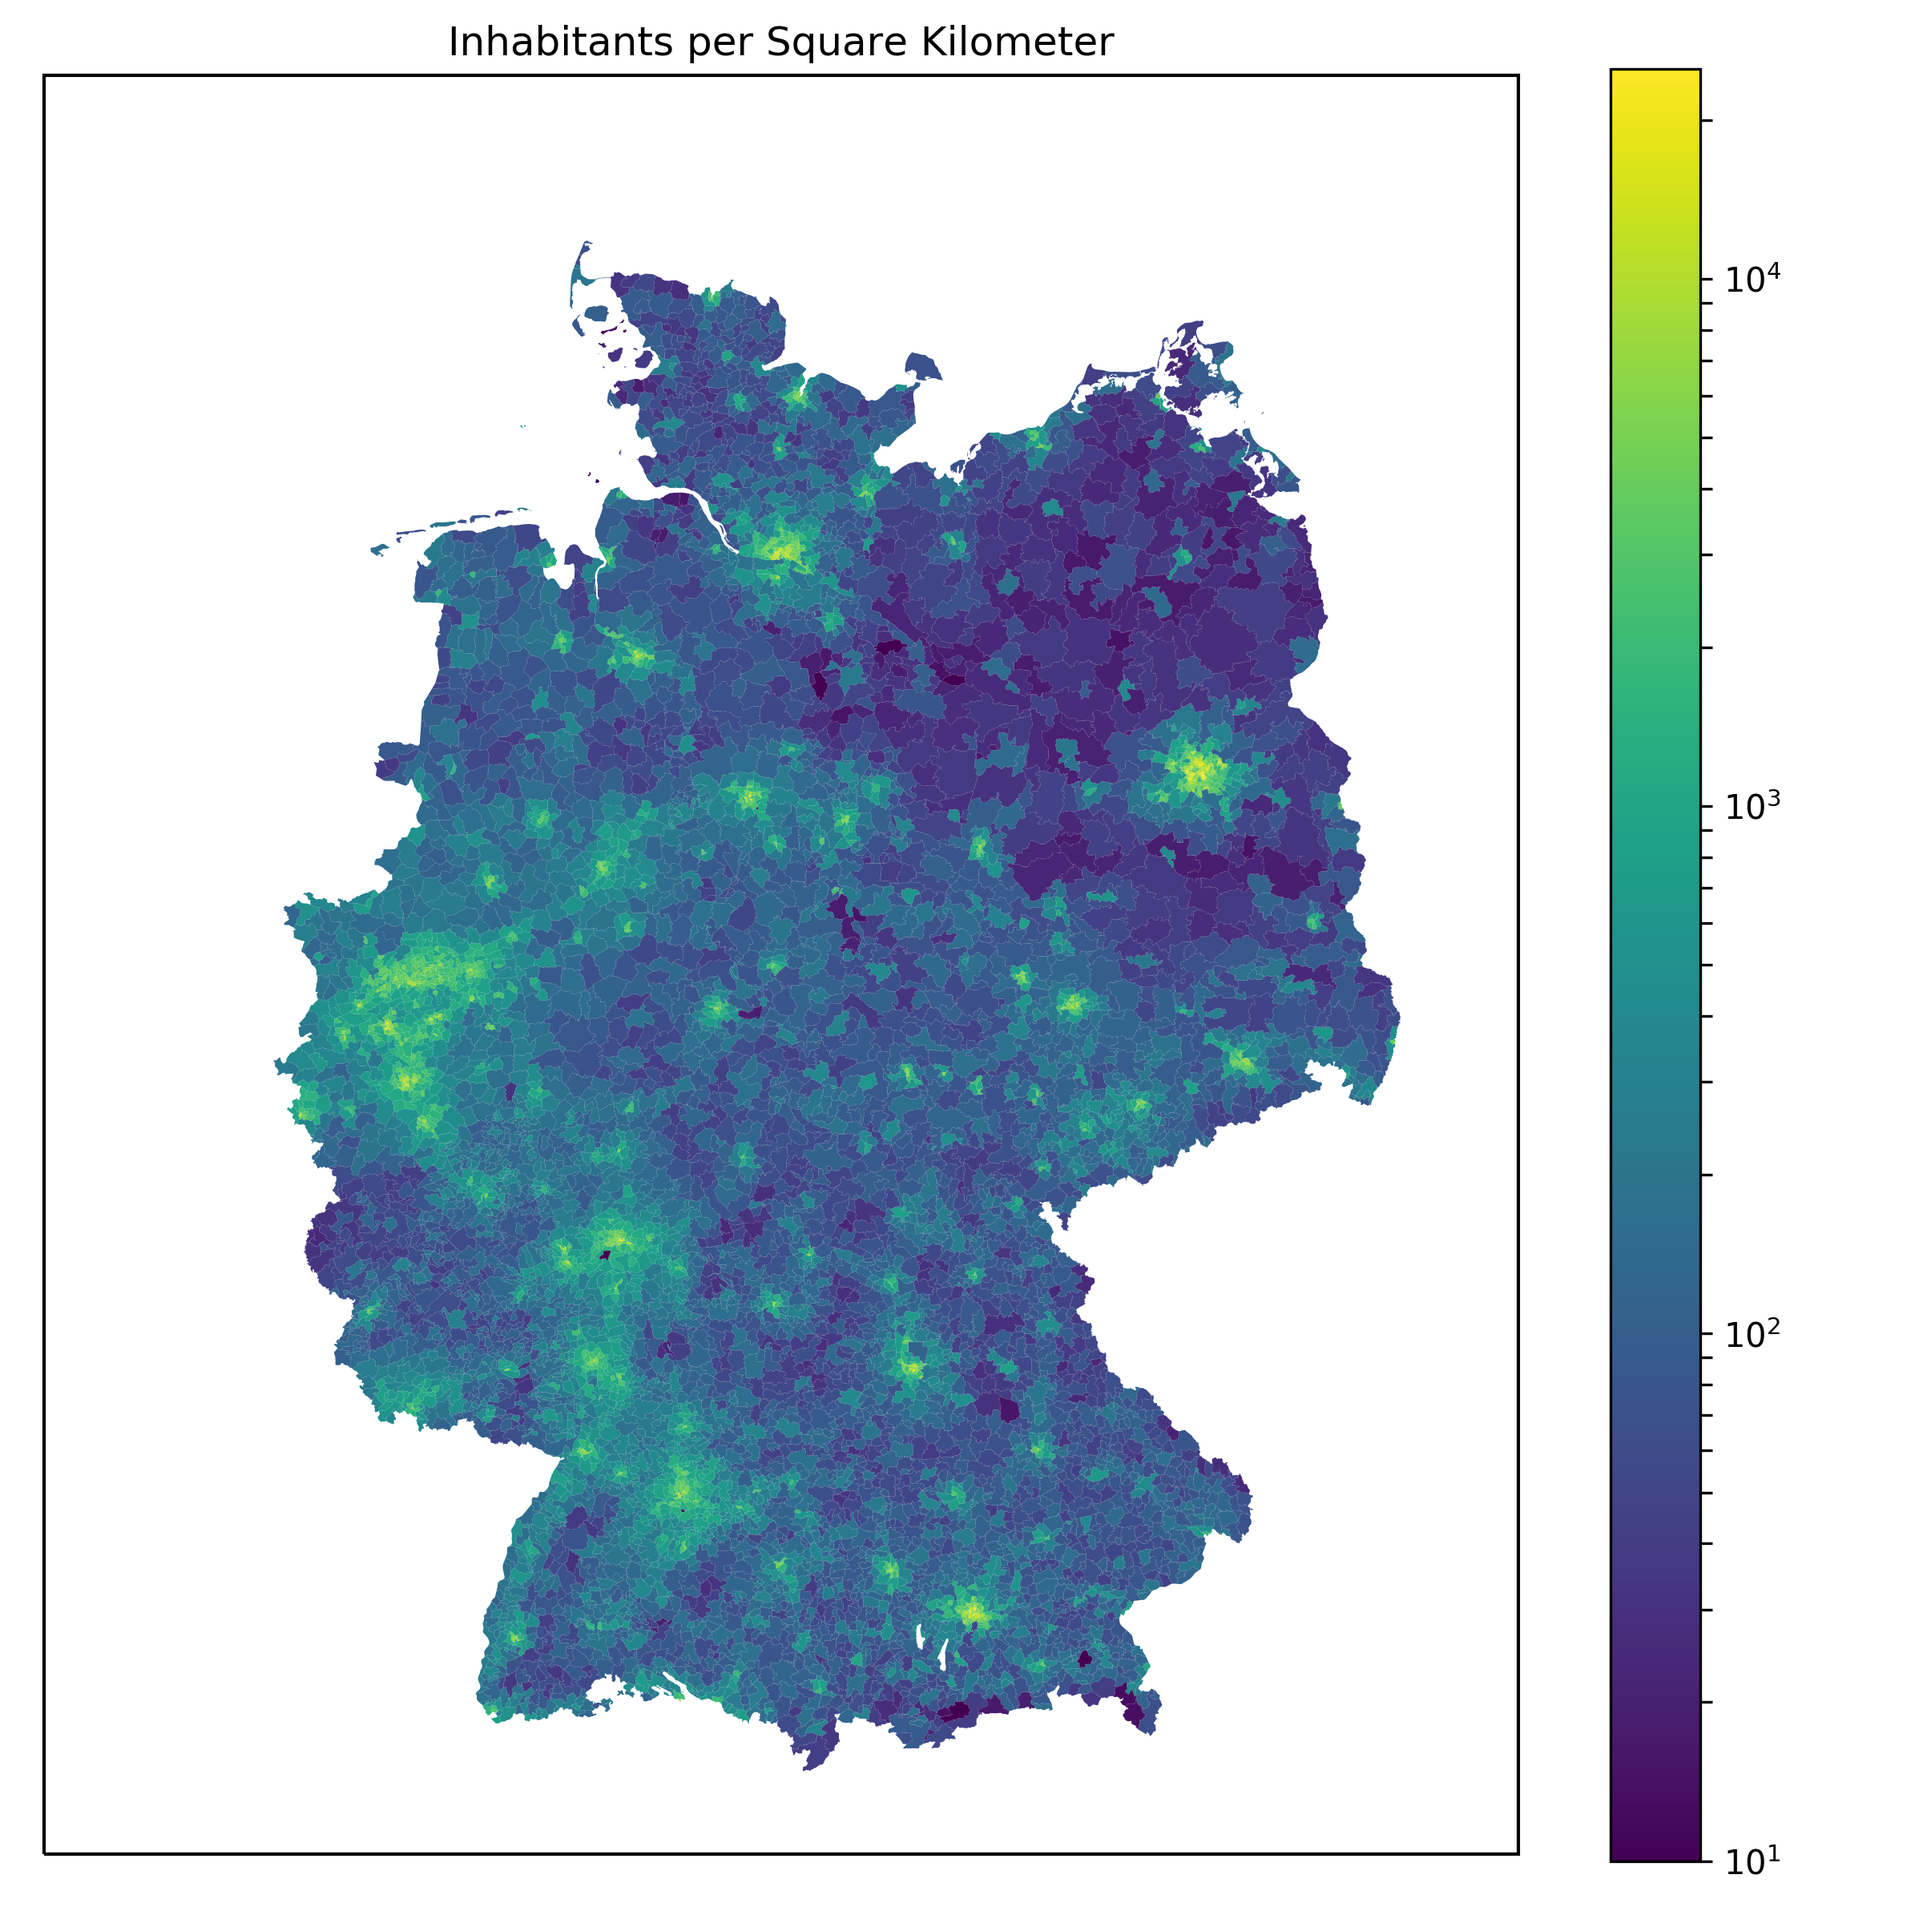
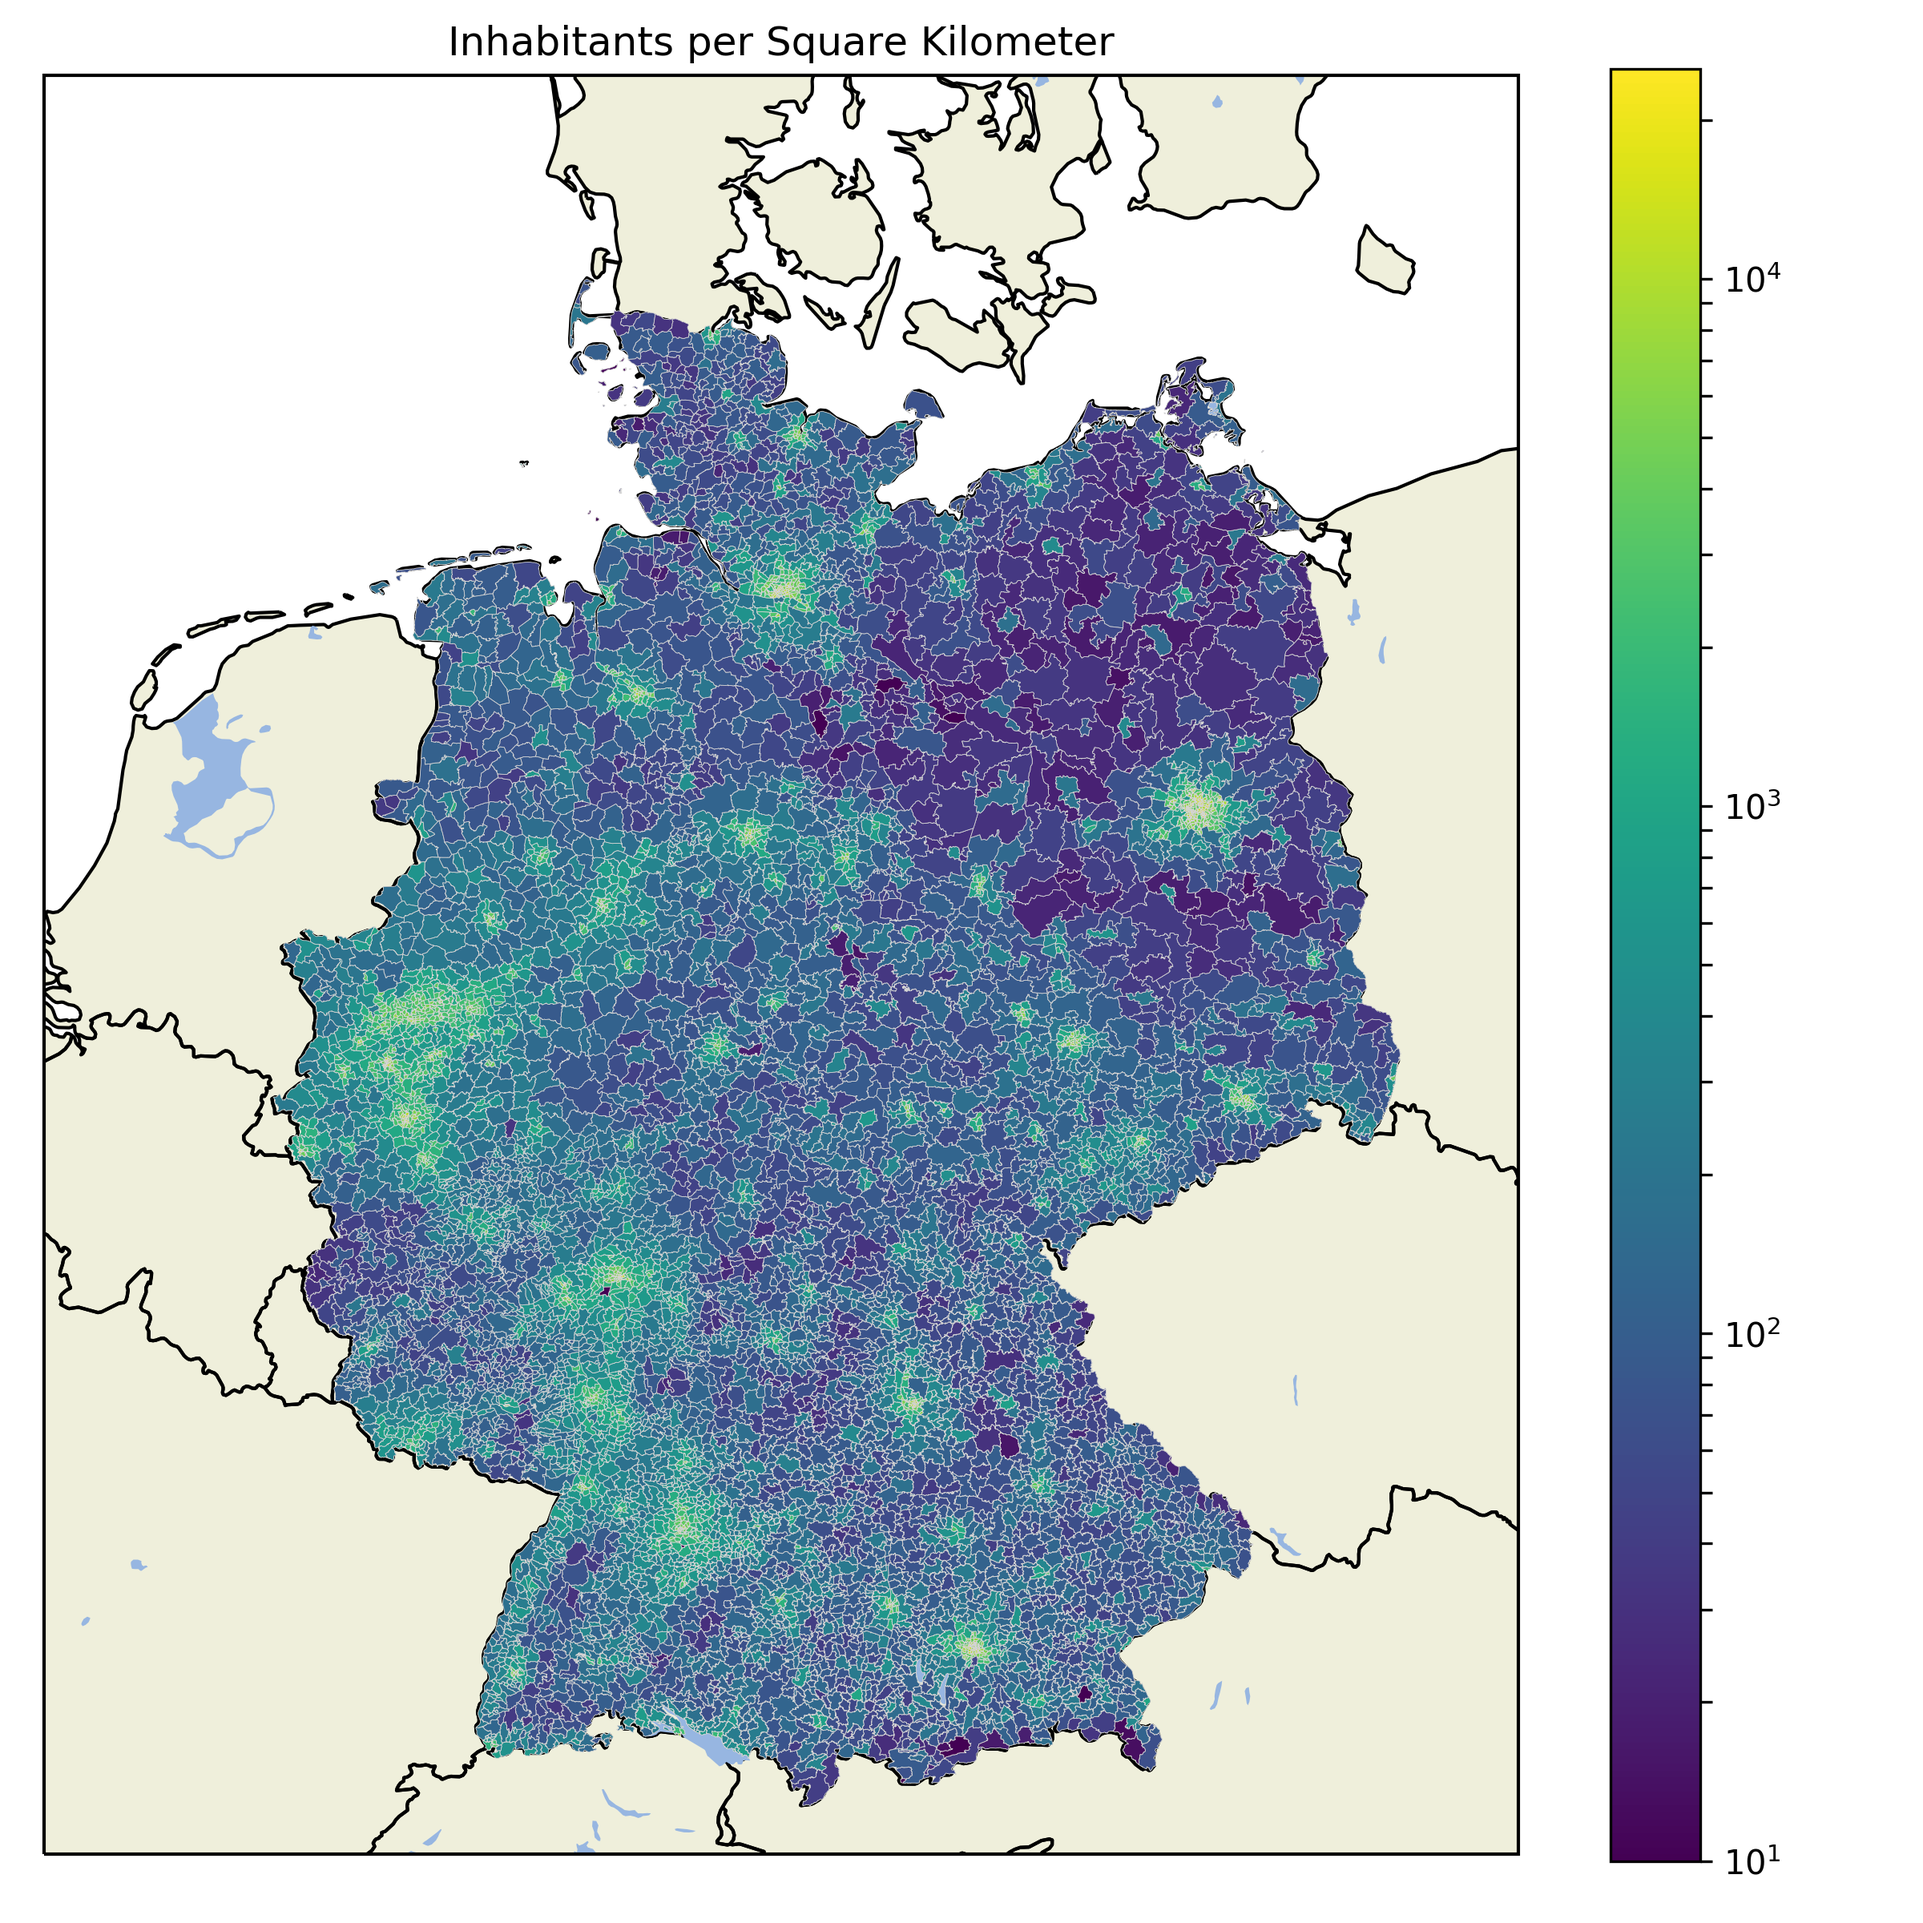
Update example

diff --git a/examples/plot_plz_areas.py b/examples/plot_plz_areas.py
@@ -17,8 +17,16 @@ land = feature.NaturalEarthFeature(
     'physical', 'land', '10m',
     facecolor=feature.COLORS['land'],
 )
+lakes = feature.NaturalEarthFeature(
+    'physical', 'lakes', '10m',
+    facecolor=feature.COLORS['water'],
+)
+lakes_europe = feature.NaturalEarthFeature(
+    'physical', 'lakes_europe', '10m',
+    facecolor=feature.COLORS['water'],
+)
 countries = feature.NaturalEarthFeature(
-    'cultural', 'admin0_countries', '10m',
+    'cultural', 'admin_0_countries', '10m',
     facecolor='none',
     edgecolor='k',
 )
@@ -28,16 +36,20 @@ ax.add_feature(countries)
 
 
 df['inhabitants_per_area'] = df['inhabitants'] / df['area']
+df.loc[df['inhabitants'] == 0, 'inhabitants_per_area'] = 1e-3
 
 plot = plot_plz_data(
     df['inhabitants_per_area'],
     ax=ax,
     norm=LogNorm(),
     vmin=1e1,
-    vmax=10e4,
+    vmax=2.5e4,
 )
 plot.set_edgecolor('lightgray')
 plot.set_linewidth(0.2)
+
+ax.add_feature(lakes)
+ax.add_feature(lakes_europe)
 
 ax.set_title('Inhabitants per Square Kilometer')
 
